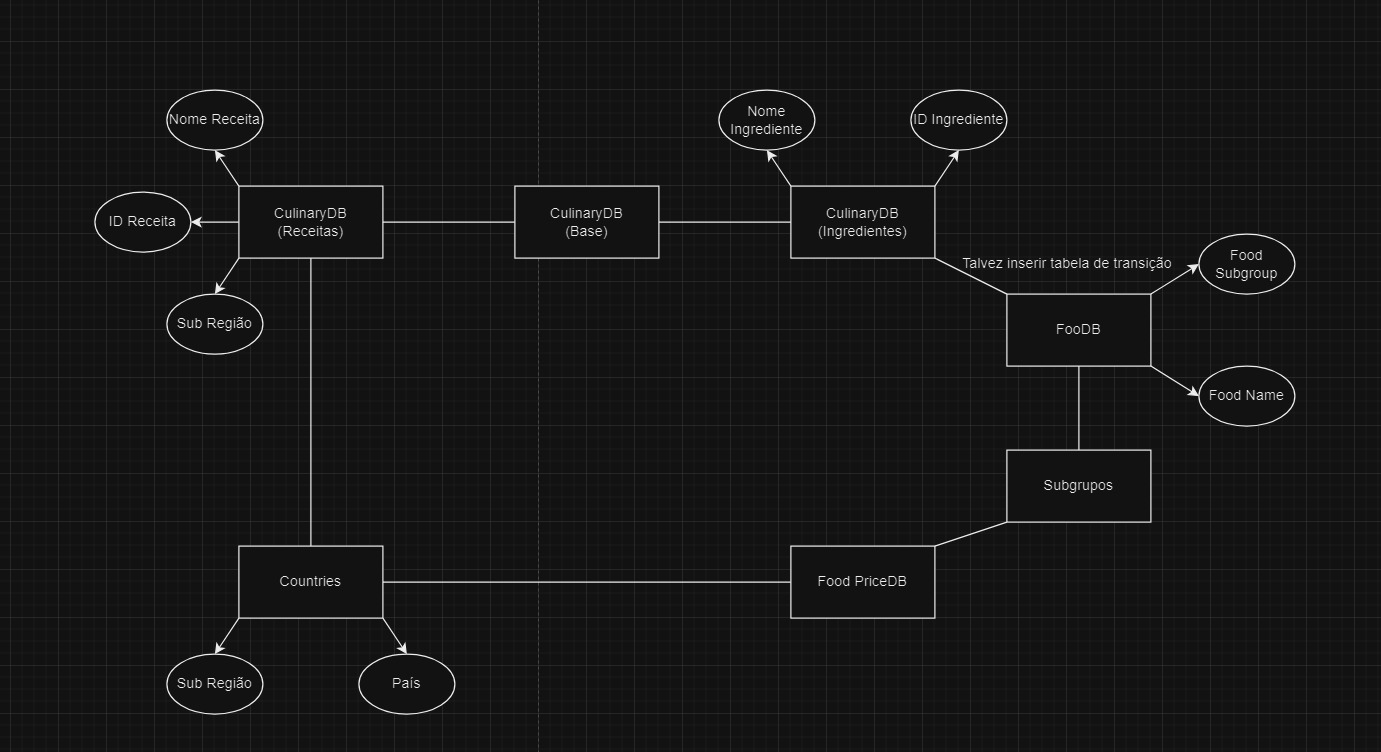
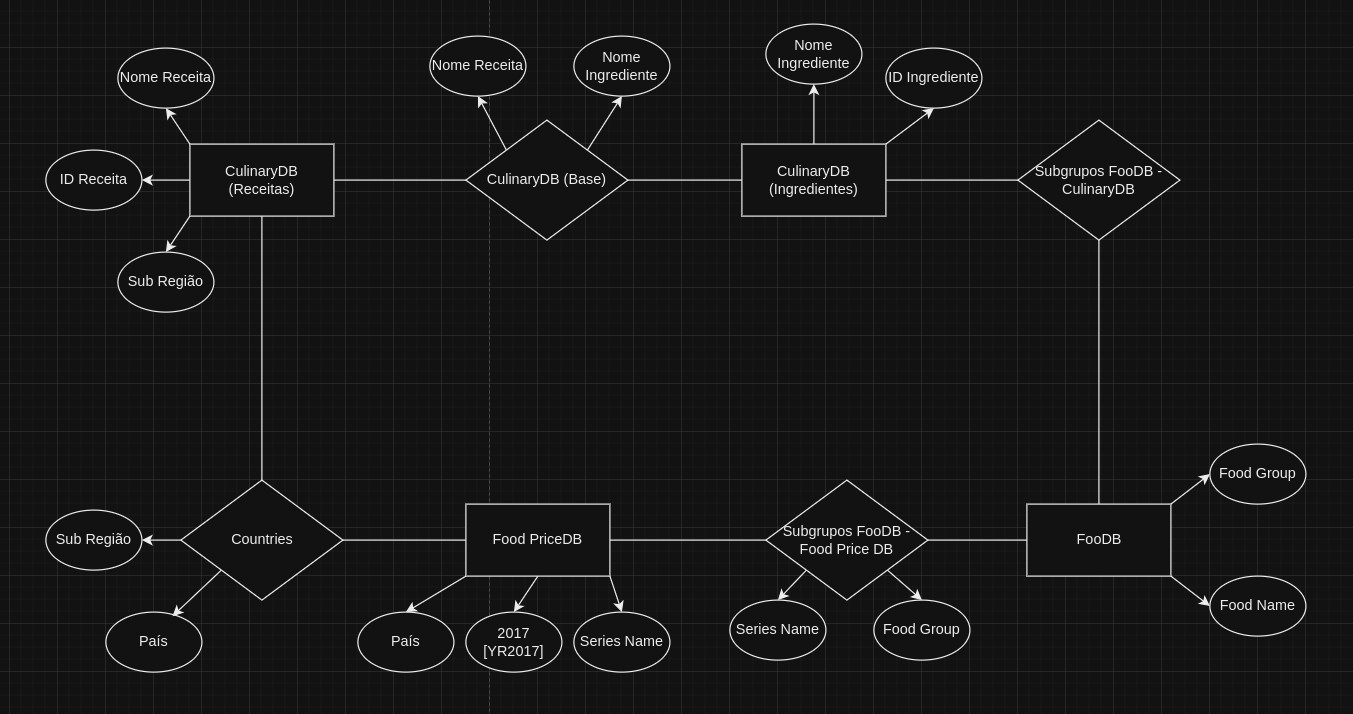
atualizando modelo conceitual

diff --git a/README.md b/README.md
@@ -10,7 +10,7 @@
 > [link apresentação prévia](https://docs.google.com/presentation/d/1N923BpFqJgYXyllvehe5JJaJiW3ZCo-WHdwJqBCGiD0/edit#slide=id.g27f0b59aa52_0_83)
 
 ## Apresentação Final
-> [link apresentação final]()Coloque aqui o link para o PDF da apresentação final
+> [link apresentação final](https://docs.google.com/presentation/d/1LnQcKPTvOaCPmFX3a4G9v9FpPh1NK7QrJTUFfLJPA2Y/edit#slide=id.p)
 
 ## Modelo Conceitual
 <img src="./assets/projeto_final/modelo_conceitual_entrega_final.jpeg" width="800px" height="auto">
@@ -37,6 +37,7 @@ ARMÁRIO(_Código_, Tamanho, Ocupante)
 
 título do arquivo/base | link | breve descrição
 ----- | ----- | -----
+`CountriesTable` | `https://raw.githubusercontent.com/lipecorradini/mc536-PLAY/main/data/interim/CountriesTable.csv` | `Tabela que relaciona todos os países existentes na base de dados "Food Prices DB" com sua respectiva subregião geocultural estabelecida pela CulinaryDB.`
 `<título do arquivo/base>` | `<link para arquivo/base>` | `<breve descrição do arquivo/base>`
 
 > Os arquivos finais do dataset publicado devem ser colocados na pasta `data`, em subpasta `processed`. Outros arquivos serão colocados em subpastas conforme seu papel (externo, interim, raw). A diferença entre externo e raw é que o raw é em formato não adaptado para uso. A pasta `raw` é opcional, pois pode ser substituída pelo link para a base original da seção anterior.
